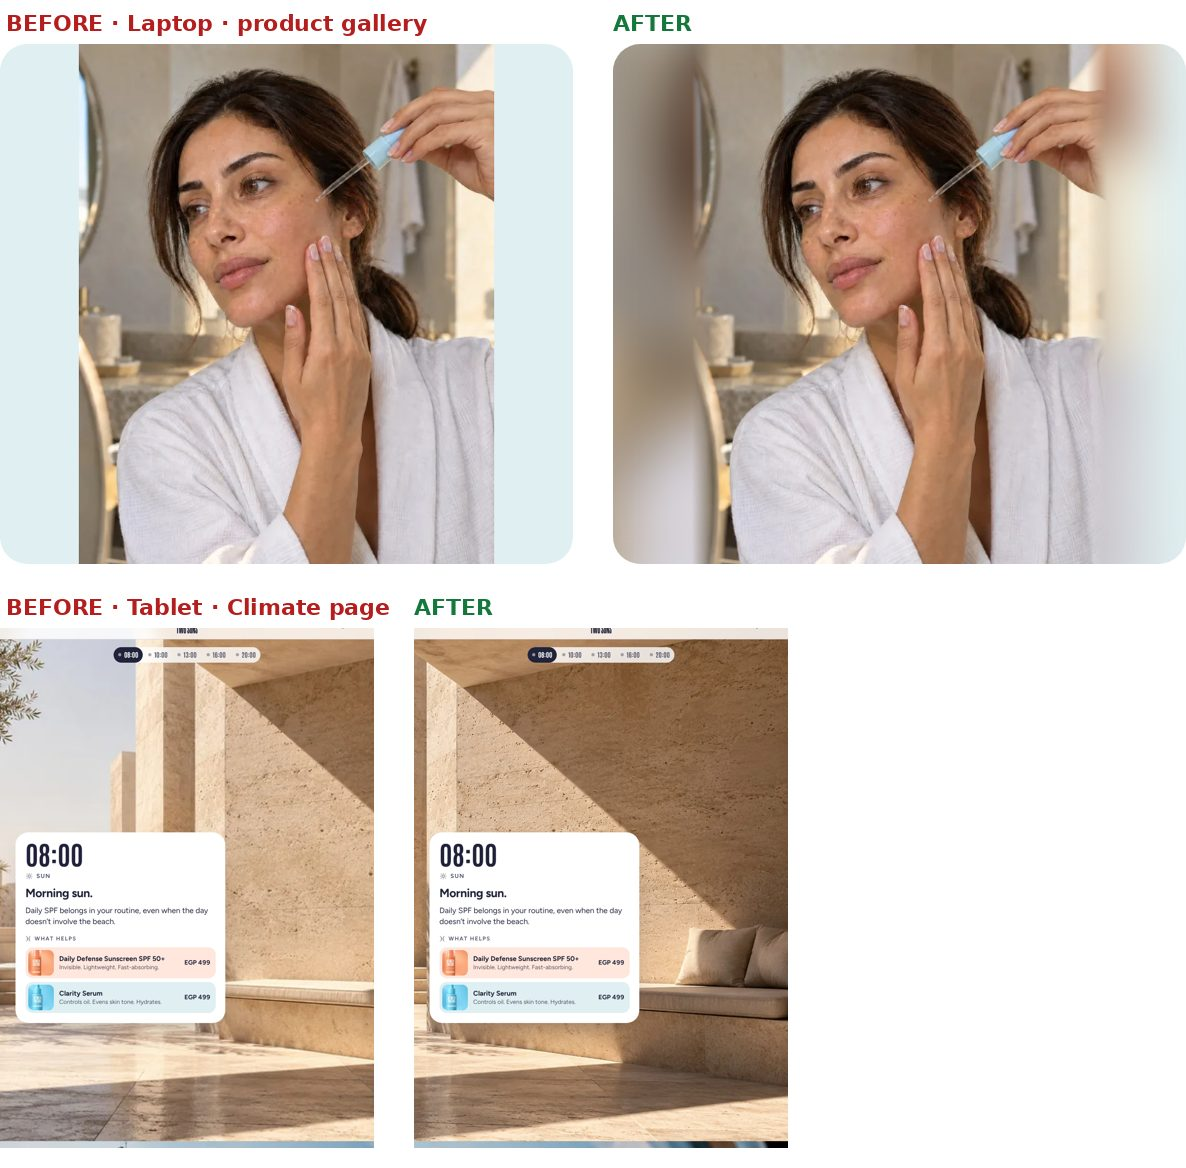
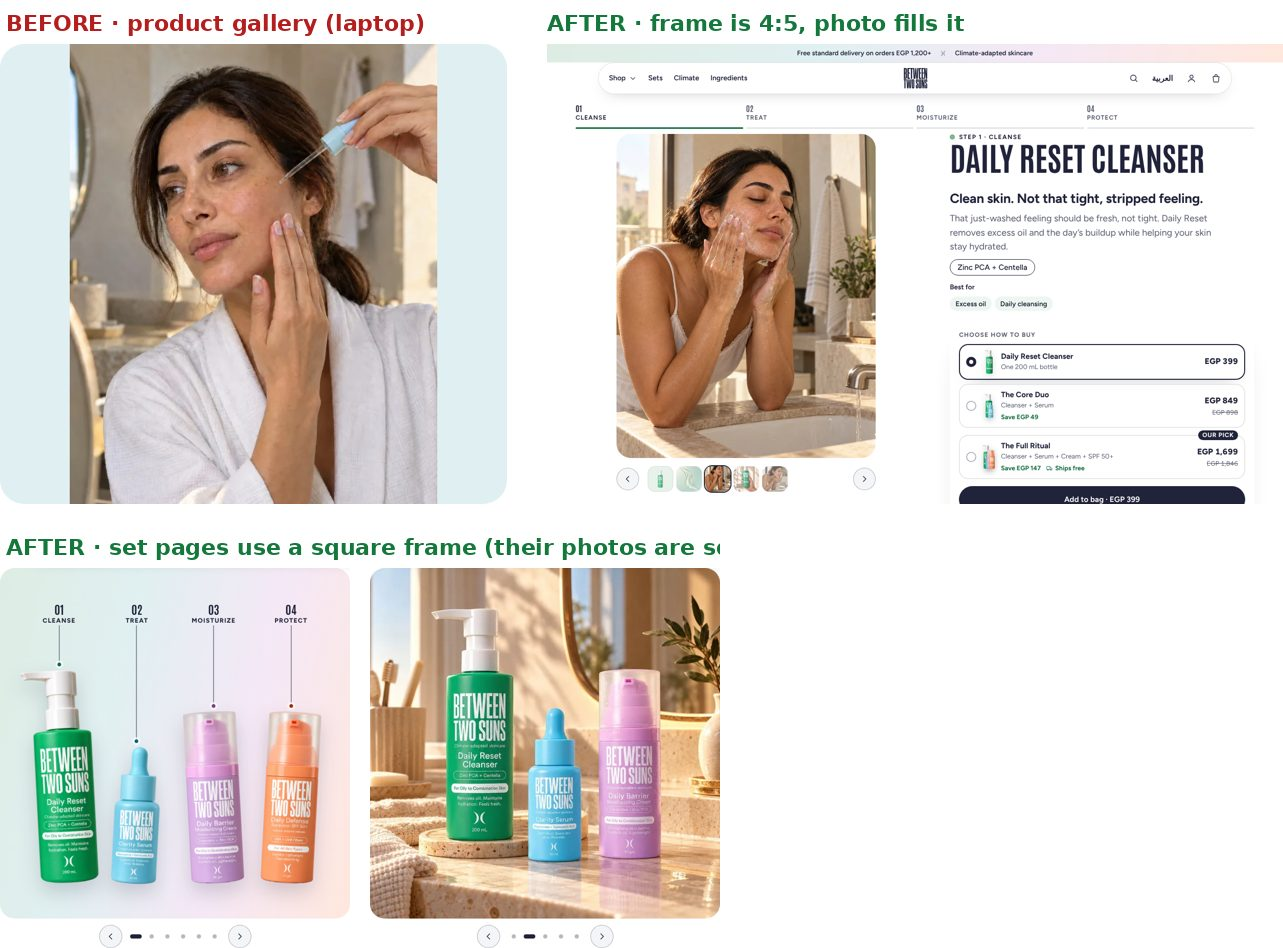
PDP gallery: frame takes the photos' shape (4:5 products, square sets) and photos fill it (309)
Claude-Session: https://claude.ai/code/session_01LtDGGe7BHLnAUqD8k7kFm7

diff --git a/theme/assets/product.css b/theme/assets/product.css
@@ -208,16 +208,11 @@ html.has-open-dialog .sticky-atc { transform: translateY(110%); }
 @media (max-width: 989px) {
   .gallery__slide { aspect-ratio: 1 / 1; }
 }
-/* Laptop and desktop gallery (DECISIONS 308): the frame follows the screen height, so a photo rarely has its shape.
-   The photo sits whole (never cropped) and the room left beside it is its own background carried on: a soft, blurred
-   copy of the same photo, with the photo's edges feathered into it so there is no seam. Phones keep the full-bleed
-   square crop, which suits these photos better there. */
-.pdp__gallery .gallery__slide.gallery__slide--photo > img.gallery__fill { display: none; }
+/* Laptop and desktop gallery (DECISIONS 308): photos fill the frame edge to edge (owner: "they would look better if
+   the photo took up the whole space"). The frame takes the photos' own 4:5 shape (see pdp-v2.css), so filling it costs
+   almost nothing at the edges. Packs on transparent backgrounds keep sitting whole on their tint. */
 @media (min-width: 990px) {
-  .pdp__gallery .gallery__slide.gallery__slide--photo > img.gallery__fill { display: block; inset: -8%; inline-size: 116%; block-size: 116%; object-fit: cover; z-index: -1; filter: blur(30px) saturate(1.05); transform: translateZ(0); }
-  .pdp__gallery .gallery__slide.gallery__slide--photo > img:not(.gallery__fill) { object-fit: contain;
-    -webkit-mask-image: var(--fmx, none), var(--fmy, none); mask-image: var(--fmx, none), var(--fmy, none);
-    -webkit-mask-composite: source-in; mask-composite: intersect; }
+  .pdp__gallery .gallery__track .gallery__slide.gallery__slide--photo > img { object-fit: cover; object-position: 50% 40%; }
 }
 .routine-strip__offers { display: grid; gap: 12px; margin-block-start: clamp(20px, 3vw, 32px); }
 /* Bundle product page: the packs on a two-colour stage */

diff --git a/theme/assets/pdp-v2.js b/theme/assets/pdp-v2.js
@@ -210,23 +210,3 @@ customElements.whenDefined('media-gallery').then(() => {
   document.querySelectorAll('.pdp--v2 media-gallery').forEach(initGallery);
 });
 
-/* Gallery photos on laptops (DECISIONS 308): feather the photo's own edges into its blurred background, at the exact
-   place the photo ends inside the frame (it changes with the screen and each photo's shape). */
-(() => {
-  const desk = matchMedia('(min-width: 990px)');
-  const fit = (img) => {
-    const slide = img.parentElement; if (!slide) return;
-    if (!desk.matches || !img.naturalWidth) { img.style.removeProperty('--fmx'); img.style.removeProperty('--fmy'); return; }
-    const W = slide.clientWidth, H = slide.clientHeight; if (!W || !H) return;
-    const r = img.naturalWidth / img.naturalHeight, f = 3.5;
-    const ex = Math.max(0, (1 - (H * r) / W) / 2) * 100, ey = Math.max(0, (1 - W / r / H) / 2) * 100;
-    const g = (dir, e) => e > 0.5 ? `linear-gradient(${dir}, transparent ${e}%, #000 ${e + f}%, #000 ${100 - e - f}%, transparent ${100 - e}%)` : 'linear-gradient(#000, #000)';
-    img.style.setProperty('--fmx', g('90deg', ex)); img.style.setProperty('--fmy', g('180deg', ey));
-  };
-  const all = () => document.querySelectorAll('.pdp__gallery .gallery__slide--photo > img:not(.gallery__fill)').forEach(fit);
-  document.querySelectorAll('.pdp__gallery .gallery__slide--photo > img:not(.gallery__fill)').forEach((img) => {
-    if (img.complete) fit(img); else img.addEventListener('load', () => fit(img), { once: true });
-    if ('ResizeObserver' in window) new ResizeObserver(() => fit(img)).observe(img.parentElement);
-  });
-  desk.addEventListener('change', all);
-})();

diff --git a/theme/assets/pdp-v2.css b/theme/assets/pdp-v2.css
@@ -275,6 +275,11 @@
   /* sets have no step tabs: the picture sticks under the header only, so it never sits lower than the title (DECISIONS 276) */
   .pdp--v2[data-step='0'] .pdp__gallery { inset-block-start: calc(var(--header-h) + 16px); }
   .pdp--v2 .pdp__gallery .gallery__slide { block-size: min(125cqw, var(--v2-stage-h, max(400px, calc(100svh - 250px)))); }
+  /* the frame is always 4:5, the shape of the photos: as tall as the screen allows, and 0.8 × that wide (DECISIONS 308) */
+  .pdp--v2 .pdp__gallery { inline-size: min(100%, calc(var(--v2-stage-h, max(400px, calc(100svh - 250px))) * .8)); justify-self: center; }
+  /* set pages: their photos are square, so their frame is square (the packs run almost edge to edge) */
+  .pdp--v2[data-step='0'] .pdp__gallery { inline-size: min(100%, var(--v2-stage-h, max(400px, calc(100svh - 250px)))); }
+  .pdp--v2[data-step='0'] .pdp__gallery .gallery__slide { block-size: min(100cqw, var(--v2-stage-h, max(400px, calc(100svh - 250px)))); }
   .pdp--v2 .pdp__gallery.is-fitted .gallery__slide { transition: block-size 420ms cubic-bezier(.22, .8, .24, 1); }
 }
 @media (min-width: 990px) and (prefers-reduced-motion: reduce) {

diff --git a/DECISIONS.md b/DECISIONS.md
@@ -1312,3 +1312,4 @@ Each entry: decision · why · reversibility. Newest last.
     - Audit: real store photos fetched into _source/photos (77 files, gitignored; the local preview had only cut-outs), every image measured on 21 pages × 4 sizes (1,039 images): crop % for cover, band % for contain. Photo shapes in the store: packs 2:3 (transparent), studio/detail 1:1, application/in-hand/texture 4:5, Night Ritual 4:3. Most flags were transparent cut-outs on tinted cards (fine) or abstract textures (crop reads fine).
     - Fixed: (1) PDP gallery on laptops/desktops: the frame follows the screen height, so photos sat between flat tint strips. Photos now sit whole on a blurred copy of themselves (img.gallery__fill), with the photo's edges feathered into it exactly where the photo ends (pdp-v2.js computes the mask per photo/screen; works for side or top/bottom gaps). Phones keep the full-bleed square crop (tested; it looked better there). (2) Climate page: the tall scene photos are used on any portrait screen (max-aspect-ratio: 1/1), not only under 750px, so tablets stop cropping the wide photo to a strip.
     - QA green (spacing 186/186 now that real photos load locally); 4 files deployed to 1.2, checksums match, live unchanged. Review: review/images/before-after.jpg. Next candidates if the owner flags them: Stock-Up texture strip (one tall texture across the full width), creators cards (16:9 photo in a 4:5 card), home sets cards (1:1 in 4:3).
+309. **PDP gallery: photos fill the frame (Version 1.2).** Owner (screenshots of the cleanser page on a wide Safari window): "Most crops don't look fine… they would look better if the photo took up the whole space." The blurred-fill idea from 308 is removed. Laptops/desktops: the gallery frame now takes the photos' own shape and fills with them: single products 4:5 (as tall as the screen allows, 0.8 × that wide, centred in its column), set pages square (their photos are square and the packs run edge to edge); photo slides object-fit: cover at 50% 40%. Transparent pack shots still sit whole on their tint. Phones unchanged (full-bleed square). Checked 1280/1440/1920/2400 wide: frame exactly 4:5; Night Ritual photo shows all three packs. QA green; product.css, pdp-v2.css, pdp-v2.js, main-product-v2.liquid deployed to 1.2, checksums match, live unchanged. Review: review/images/before-after.jpg.

diff --git a/CLAUDE.md b/CLAUDE.md
@@ -4,7 +4,7 @@ You are continuing a long-running build. This file is the handover: who the owne
 what was done and why, and exactly what to do next. **DECISIONS.md** (numbered log, newest at the bottom) and **STATUS.md**
 (current state, restore points, launch checklist) hold the detail; this file tells you how to use them.
 
-**Next DECISIONS entry number: 309.** Add one entry per round of work and keep STATUS.md current.
+**Next DECISIONS entry number: 310.** Add one entry per round of work and keep STATUS.md current.
 
 ---
 
